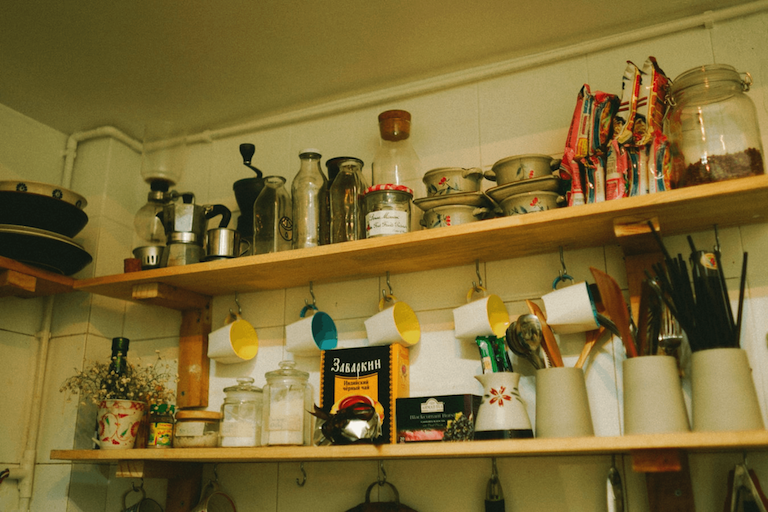
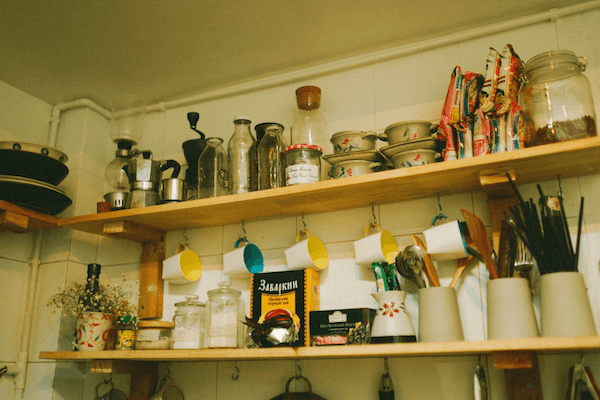
Performance optimization

diff --git a/src/styles/reset.scss b/src/styles/reset.scss
@@ -26,11 +26,24 @@ body {
     background-color: $lightColor;
 
     html > &.withBG {
-        background: linear-gradient(rgba(0, 0, 0, 0.5), rgba(0, 0, 0, 0.5)),  url('/bg-desktop.png');
-        background-attachment: fixed;
-        background-repeat: no-repeat;
-        background-size: cover;
-        color: $lightColor;
+
+        @media (max-width: $sm) {
+            background: linear-gradient(rgba(0, 0, 0, 0.5), rgba(0, 0, 0, 0.5)),  url('/bg-mobile.png');
+
+            background-attachment: fixed;
+            background-repeat: no-repeat;
+            background-size: cover;
+            color: $lightColor;
+        }
+
+        @media (min-width: $sm) {
+            background: linear-gradient(rgba(0, 0, 0, 0.5), rgba(0, 0, 0, 0.5)),  url('/bg-desktop.png');
+
+            background-attachment: fixed;
+            background-repeat: no-repeat;
+            background-size: cover;
+            color: $lightColor;
+        }
     }
 
     &.dark {
